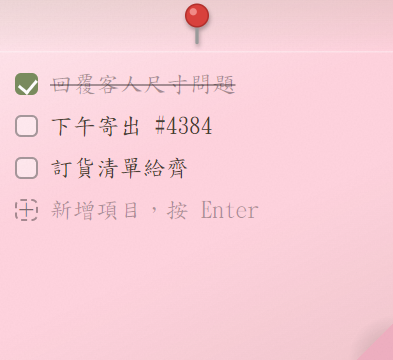
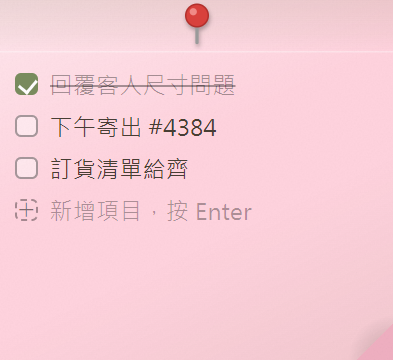
v0.3.1：內文字體改微軟正黑（Mac 蘋方），楷體太復古（Kim 回饋）

diff --git a/note.html b/note.html
@@ -107,9 +107,9 @@
   #content { flex: 1; display: flex; flex-direction: column; min-height: 0; }
   body.collapsed #content { display: none; }
 
-  /* 手寫感：楷體（Mac 是 Kaiti TC、Windows 是標楷體），像用筆寫上去的 */
+  /* 內文字體：微軟正黑（Mac 用蘋方） */
   textarea, .item input {
-    font-family: "Kaiti TC", "DFKai-SB", "KaiTi", "BiauKai", "Noto Sans TC", sans-serif;
+    font-family: "Microsoft JhengHei", "PingFang TC", "Noto Sans TC", -apple-system, sans-serif;
   }
   textarea {
     flex: 1; border: none; outline: none; resize: none;